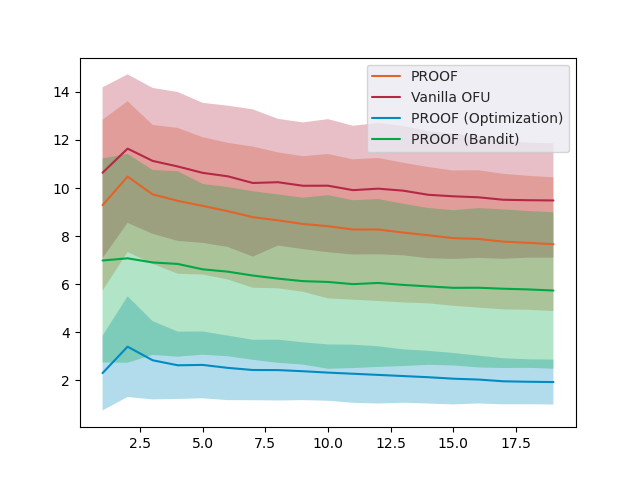
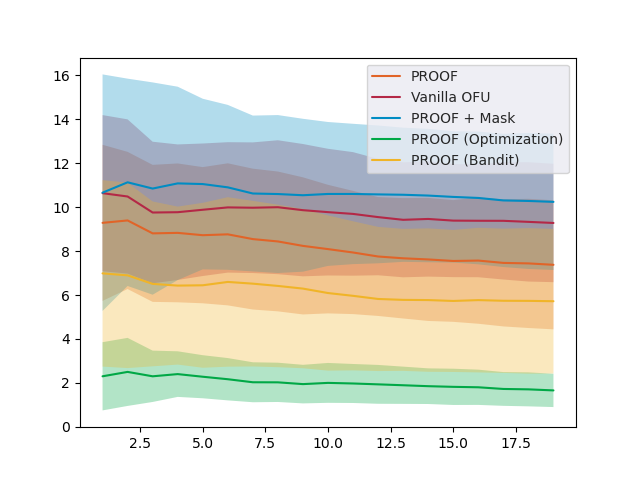
Got it to work with m_hat, predicting the mask

diff --git a/train.py b/train.py
@@ -32,7 +32,7 @@ def plot_data(data,labels,file_name):
 
 config = {'alias': 'mlp_factor8neg4_bz256_166432168_pretrain_reg_0.0000001',
               'learning_alg': 'OLS',
-              'num_trial': 10,
+              'num_trial': 11,
               'points_per_iter': 20,
               'feature_dim': 20,
               'label_dim': 5,
@@ -58,51 +58,48 @@ config = {'alias': 'mlp_factor8neg4_bz256_166432168_pretrain_reg_0.0000001',
 # Matrices storing information on each epoch 
 regret_p2p = np.zeros((config['num_trial'], config['num_epoch']-1))
 regret_bandit = np.zeros((config['num_trial'], config['num_epoch']-1))
-regret_p2p_o = np.zeros((config['num_trial'], config['num_epoch']-1))
-regret_p2p_b = np.zeros((config['num_trial'], config['num_epoch']-1))
+regret_mask = np.zeros((config['num_trial'],config['num_epoch']-1))
 regret_match_p2p = np.zeros((config['num_trial'], config['num_epoch']-1))
 regret_match_bandit = np.zeros((config['num_trial'], config['num_epoch']-1))
+regret_match_mask = np.zeros((config['num_trial'],config['num_epoch']-1))
 time_p2p = np.zeros((config['num_trial'], config['num_epoch']-1))
 time_bandit = np.zeros((config['num_trial'], config['num_epoch']-1))
 
+def run_one_round(engine,env,data_loader,test_feature,test_label,epoch,trial_idx,regret_matrix, match_matrix, best_match, best_reward):
+    action, _time = engine.p2p_an_epoch(data_loader, test_feature, epoch_id=epoch)
+    matches = engine.get_matches(action,test_label,env._m)
+    ro, rb = env.get_reward(action)
+    match_reward = env.get_match_reward(matches)
+    engine.update_bandit(ro,rb)
+    regret_matrix[trial_idx, epoch-1] = (ro.sum()+rb.sum())-best_reward.sum()
+    match_matrix[trial_idx, epoch-1] = best_match - match_reward
+    
+    return ro, rb, match_reward
+
 for trial_idx in range(config['num_trial']):
     env = P2PEnvironment(config, seed=trial_idx * 10)
-    engine_p2p = P2PEngine(env, config, pure_bandit=False)
-    engine_bandit = P2PEngine(env, config, pure_bandit=True)
+    engine_p2p = P2PEngine(env, config, pure_bandit=False, predict_mask=False)
+    engine_mask = P2PEngine(env, config, pure_bandit=False, predict_mask=True)
+    engine_bandit = P2PEngine(env, config, pure_bandit=True, predict_mask=False)
+    
     start_time = time()
     
     for epoch in range(1, config['num_epoch']):
         data_loader = env.get_data_loader()
         test_feature, test_label = env.get_new_data(epoch)
         
-        action_p2p, time_p2p[trial_idx, epoch-1] = engine_p2p.p2p_an_epoch(data_loader, test_feature, epoch_id=epoch)
-        action_bandit, time_bandit[trial_idx, epoch-1] = engine_bandit.p2p_an_epoch(data_loader, test_feature, epoch_id=epoch)
-        
-        matches_p2p = engine_p2p.get_matches(action_p2p,test_label, env._m)
-        matches_bandit = engine_bandit.get_matches(action_bandit,test_label, env._m)
-
         best_action = engine_p2p.p2p_known_mu(test_label, env._m)
+        best_reward_optimization, best_reward_bandit = env.get_reward(best_action)
+        best_reward = best_reward_optimization + best_reward_bandit
         best_matches = engine_p2p.get_matches(best_action,test_label, env._m)
-        
-        ro_p2p, rb_p2p = env.get_reward(action_p2p)
-        ro_bandit, rb_bandit = env.get_reward(action_bandit)
-        ro_best, rb_best = env.get_reward(best_action)
-        
-        p2p_match_reward = env.get_match_reward(matches_p2p)
-        bandit_match_reward = env.get_match_reward(matches_bandit)
         best_match_reward = env.get_match_reward(best_matches)
-            
-        engine_p2p.update_bandit(ro_p2p, rb_p2p)
-        engine_bandit.update_bandit(ro_bandit, rb_bandit)
+        
+        ro_bandit, rb_bandit, match_bandit = run_one_round(engine_bandit,env,data_loader,test_feature,test_label,epoch,trial_idx, regret_bandit, regret_match_bandit, best_match_reward, best_reward)
+        ro_p2p, rb_p2p, match_p2p = run_one_round(engine_p2p,env,data_loader,test_feature,test_label,epoch, trial_idx, regret_p2p, regret_match_p2p, best_match_reward, best_reward)
+        ro_mask, rb_mask, match_mask = run_one_round(engine_mask,env,data_loader,test_feature,test_label,epoch, trial_idx, regret_mask, regret_match_mask, best_match_reward, best_reward)
+
         env.add_to_data_loader()
-        
-        regret_p2p[trial_idx, epoch-1] = ro_p2p.sum() + rb_p2p.sum() - ro_best.sum() - rb_best.sum()
-        regret_p2p_o[trial_idx, epoch-1] = ro_p2p.sum() - ro_best.sum()
-        regret_p2p_b[trial_idx, epoch-1] = rb_p2p.sum() - rb_best.sum()
-        regret_bandit[trial_idx, epoch-1] = ro_bandit.sum() + rb_bandit.sum() - ro_best.sum() - rb_best.sum()
-        regret_match_bandit[trial_idx, epoch-1] = best_match_reward - bandit_match_reward
-        regret_match_p2p[trial_idx, epoch-1] = best_match_reward - p2p_match_reward
-        
+
         if epoch == config['num_epoch'] - 1:
             end_time = time()
             print('Epoch {} starts !'.format(epoch))
@@ -113,22 +110,22 @@ for trial_idx in range(config['num_trial']):
             config['KA_norm'],config['eta'],config['epsilon'],config['learn_iter'],
             config['learning_alg'],trial_idx)
             
-            for algorithm, dataset in zip(['p2p','bandit','p2p_o','p2p_b'], 
-                                          [regret_p2p,regret_bandit,regret_p2p_o,regret_p2p_b]):
+            for algorithm, dataset in zip(['p2p','bandit'], 
+                                          [regret_p2p,regret_bandit]):
                 file_name = file_basename + algorithm + ".npy"
                 np.save(file_name,dataset)
 
-nbc_palette = ['#e16428', '#b42846', '#008cc3', '#00a846']
+nbc_palette = ['#e16428', '#b42846', '#008cc3', '#00a846', "#f0b428"]
 sns.palplot(sns.color_palette(nbc_palette))
 
 file_name = 'figures/n{}m{}d{}ka{}eta{}eps{}iter{}alg{}FINAL{}.png'.format(config['points_per_iter'], config['feature_dim'], config['label_dim'],
 config['KA_norm'],config['eta'],config['epsilon'],config['learn_iter'],config['learning_alg'],config['num_trial'])
-data = [regret_p2p,regret_bandit,regret_p2p_o,regret_p2p_b]
-labels = ['PROOF', 'Vanilla OFU', 'PROOF (Optimization)', 'PROOF (Bandit)']
+data = [regret_p2p,regret_mask,regret_bandit]
+labels = ['PROOF', 'PROOF+Mask','Vanilla OFU']
 plot_data(data,labels,file_name)
 
 file_name = 'figures/n{}m{}d{}ka{}eta{}eps{}iter{}alg{}FINAL{}_match.png'.format(config['points_per_iter'], config['feature_dim'], config['label_dim'],
 config['KA_norm'],config['eta'],config['epsilon'],config['learn_iter'],config['learning_alg'],config['num_trial'])
-data = [regret_match_p2p,regret_match_bandit]
-labels = ['PROOF', 'Vanilla OFU']
+data = [regret_match_p2p,regret_match_mask,regret_match_bandit]
+labels = ['PROOF', 'PROOF+Mask', 'Vanilla OFU']
 plot_data(data,labels,file_name)

diff --git a/mlp.py b/mlp.py
@@ -2,6 +2,7 @@ import numpy as np
 import gurobipy as gp
 from gurobipy import GRB
 from sklearn.linear_model import LinearRegression
+from sklearn.neural_network import MLPRegressor
 from pyomo.environ import *
 from pyomo.opt import SolverStatus, TerminationCondition
 from time import time
@@ -10,10 +11,13 @@ from scipy.optimize import linear_sum_assignment
 
 
 class P2PEngine(object):
-    def __init__(self, env, config, pure_bandit):
+    def __init__(self, env, config, pure_bandit,predict_mask):
         self.config = config
         self.pure_bandit = pure_bandit
+        self.predict_mask = predict_mask
         self.predictor = LinearRegression(fit_intercept=False, n_jobs=-1)
+        self.mask_predictor = LinearRegression()
+        
         self.n = config['points_per_iter']
         self.m = config['feature_dim']
         self.d = config['label_dim']
@@ -26,6 +30,10 @@ class P2PEngine(object):
         self.beta = max(128 * self.d * np.log(1) * np.log(1/self.delta), np.square(8/3 * np.log(1/self.delta)))
         self.mu = env.mu
         self.w_known = np.zeros((self.n, self.d))
+        self.volunteer_info = env.r
+        
+        self.all_features = []
+        self.all_y_values = []
 
 
     def p2p_an_epoch(self, data_loader, test_feature, epoch_id):
@@ -45,6 +53,8 @@ class P2PEngine(object):
         start_time = time()
         if not self.pure_bandit:
             self.learn(data_loader)
+        if self.predict_mask:
+            self.learn_mask(data_loader)
         self.optimize(test_feature)
         end_time = time()
         return self.w, end_time - start_time
@@ -60,7 +70,49 @@ class P2PEngine(object):
         Side Effects: Re-fits our predictor function with all of the data_loader data points
         """
         
-        self.predictor.fit(data_loader.dataset.feature, data_loader.dataset.label)
+        if self.all_features == []:
+            self.all_features = data_loader.dataset.feature
+            self.all_y_values = data_loader.dataset.label
+        else:
+            self.all_features = np.concatenate([self.all_features,data_loader.dataset.feature])
+            self.all_y_values = np.concatenate([self.all_y_values,data_loader.dataset.label])
+
+        self.predictor.fit(self.all_features, self.all_y_values)
+        
+    def format_mask_data(self,x,r):
+        """Turn a matrix x (containing task data) and r, containing volunteer info, into
+            A combined matrix, where each row of x is x[i] + r
+            
+        Arguments:
+            x: A numpy array, of size n x m 
+            r: A numpy array of size d x n_attributes
+
+        Returns: Numpy array of size n x (m+d*n_attributes)
+        """
+        
+        x = x[:,self.m:]
+        r = r.flatten()
+        r_formatted = np.stack((r,) * len(x), axis=0)
+        combined_array = np.concatenate([x,r_formatted],axis=1)
+        return combined_array
+        
+    def learn_mask(self, data_loader):
+        """Add the pair ((x,y,),M) to our predictor function, which is currently linear regression
+        
+        Arguments:
+            data_loader: PyTorch data loader with our data (x)
+            volunteer_info: The numpy array y
+            true_mask: The true value of the mask, M
+            
+        Returns: Nothing
+        
+        Side Effects: Re-fits our mask_predictor function with ((x,y),M)
+        """
+        
+        x = data_loader.dataset.feature
+        formatted_data = self.format_mask_data(x,self.volunteer_info)
+                        
+        self.mask_predictor.fit(formatted_data,data_loader.dataset.mask)
 
     def optimize(self, test_feature):
         """Run an optimization function for each data point in the epoch (n of them) 
@@ -108,6 +160,12 @@ class P2PEngine(object):
                 c_hat = np.zeros(self.d)
             else:
                 c_hat = self.predictor.predict(x.reshape(1, -1)).squeeze()
+                
+            if self.predict_mask:
+                combined_data = self.format_mask_data(x.reshape(1,-1),self.volunteer_info)
+                m_hat = self.mask_predictor.predict(combined_data).squeeze()
+            else:
+                m_hat = np.ones(self.d)
 
             model = ConcreteModel()
             model.dSet = Set(initialize=range(self.d))
@@ -122,11 +180,12 @@ class P2PEngine(object):
             (model.nu[k] - self.mu_hat[i,k]) for j in range(self.d) for k in range(self.d))
             model.nu_constraint = Constraint(expr= expr1 <= self.beta ** .5)
             
-            model.obj = Objective(expr=sum((-c_hat[j] + model.nu[j]) * model.w[j] for j in range(self.d)), sense=minimize)
+            model.obj = Objective(expr=sum((-c_hat[j] + model.nu[j]) * model.w[j] * m_hat[j] for j in range(self.d)), sense=minimize)
 
             try:
                 result = solver.solve(model, tee = False, keepfiles = False)
             except ValueError:
+                print("Value error!!")
                 w[i,:] = -self.mu_hat[i,:]/np.linalg.norm(self.mu_hat[i,:], 2)
                 continue
 

diff --git a/data.py b/data.py
@@ -9,19 +9,21 @@ import time
 from scipy.spatial import distance
 
 class P2PDataset(Dataset):
-    def __init__(self, feature, label):
+    def __init__(self, feature, label, mask):
         self.feature = feature
         self.label = label
+        self.mask = mask
 
     def __getitem__(self, index):
-        return self.feature[index], self.label[index]
+        return self.feature[index], self.label[index], self.mask[index]
 
     def __len__(self):
         return self.feature.size(0)
 
-    def add_data(self, feature, label):
+    def add_data(self, feature, label, mask):
         self.feature = torch.cat((self.feature, feature), 0)
         self.label = torch.cat((self.label, label), 0)
+        self.mask = torch.cat((self.mask,mask),0)
 
 
 class P2PEnvironment(object):
@@ -50,7 +52,7 @@ class P2PEnvironment(object):
         self.generate_volunteer_info()
             
         self.get_new_data(0)
-        self.dataset = P2PDataset(feature=torch.Tensor(self._x), label=torch.Tensor(self._y))
+        self.dataset = P2PDataset(feature=torch.Tensor(self._x), label=torch.Tensor(self._y), mask=torch.Tensor(self._m))
 
     def generate_underlying_parameters(self):
         """Genreate the A and mu variables, which are used to generate
@@ -190,7 +192,7 @@ class P2PEnvironment(object):
         return self._x, self._y
 
     def add_to_data_loader(self):
-        self.dataset.add_data(feature=torch.Tensor(self._x), label=torch.Tensor(self._y))
+        self.dataset.add_data(feature=torch.Tensor(self._x), label=torch.Tensor(self._y), mask=torch.Tensor(self._m))
 
     def get_reward(self, action):
         """Get the reward by seeing which actions are valid (through self._y and self._m)
@@ -204,7 +206,7 @@ class P2PEnvironment(object):
         """
         
         ro = np.sum(-self._y * action * self._m, 1)
-        rb = action.dot(self.mu) + np.random.normal(0, self.eta, self.n)
+        rb = (action*self._m).dot(self.mu) + np.random.normal(0, self.eta, self.n)
         return ro, rb
     
     def get_match_reward(self, matches):
